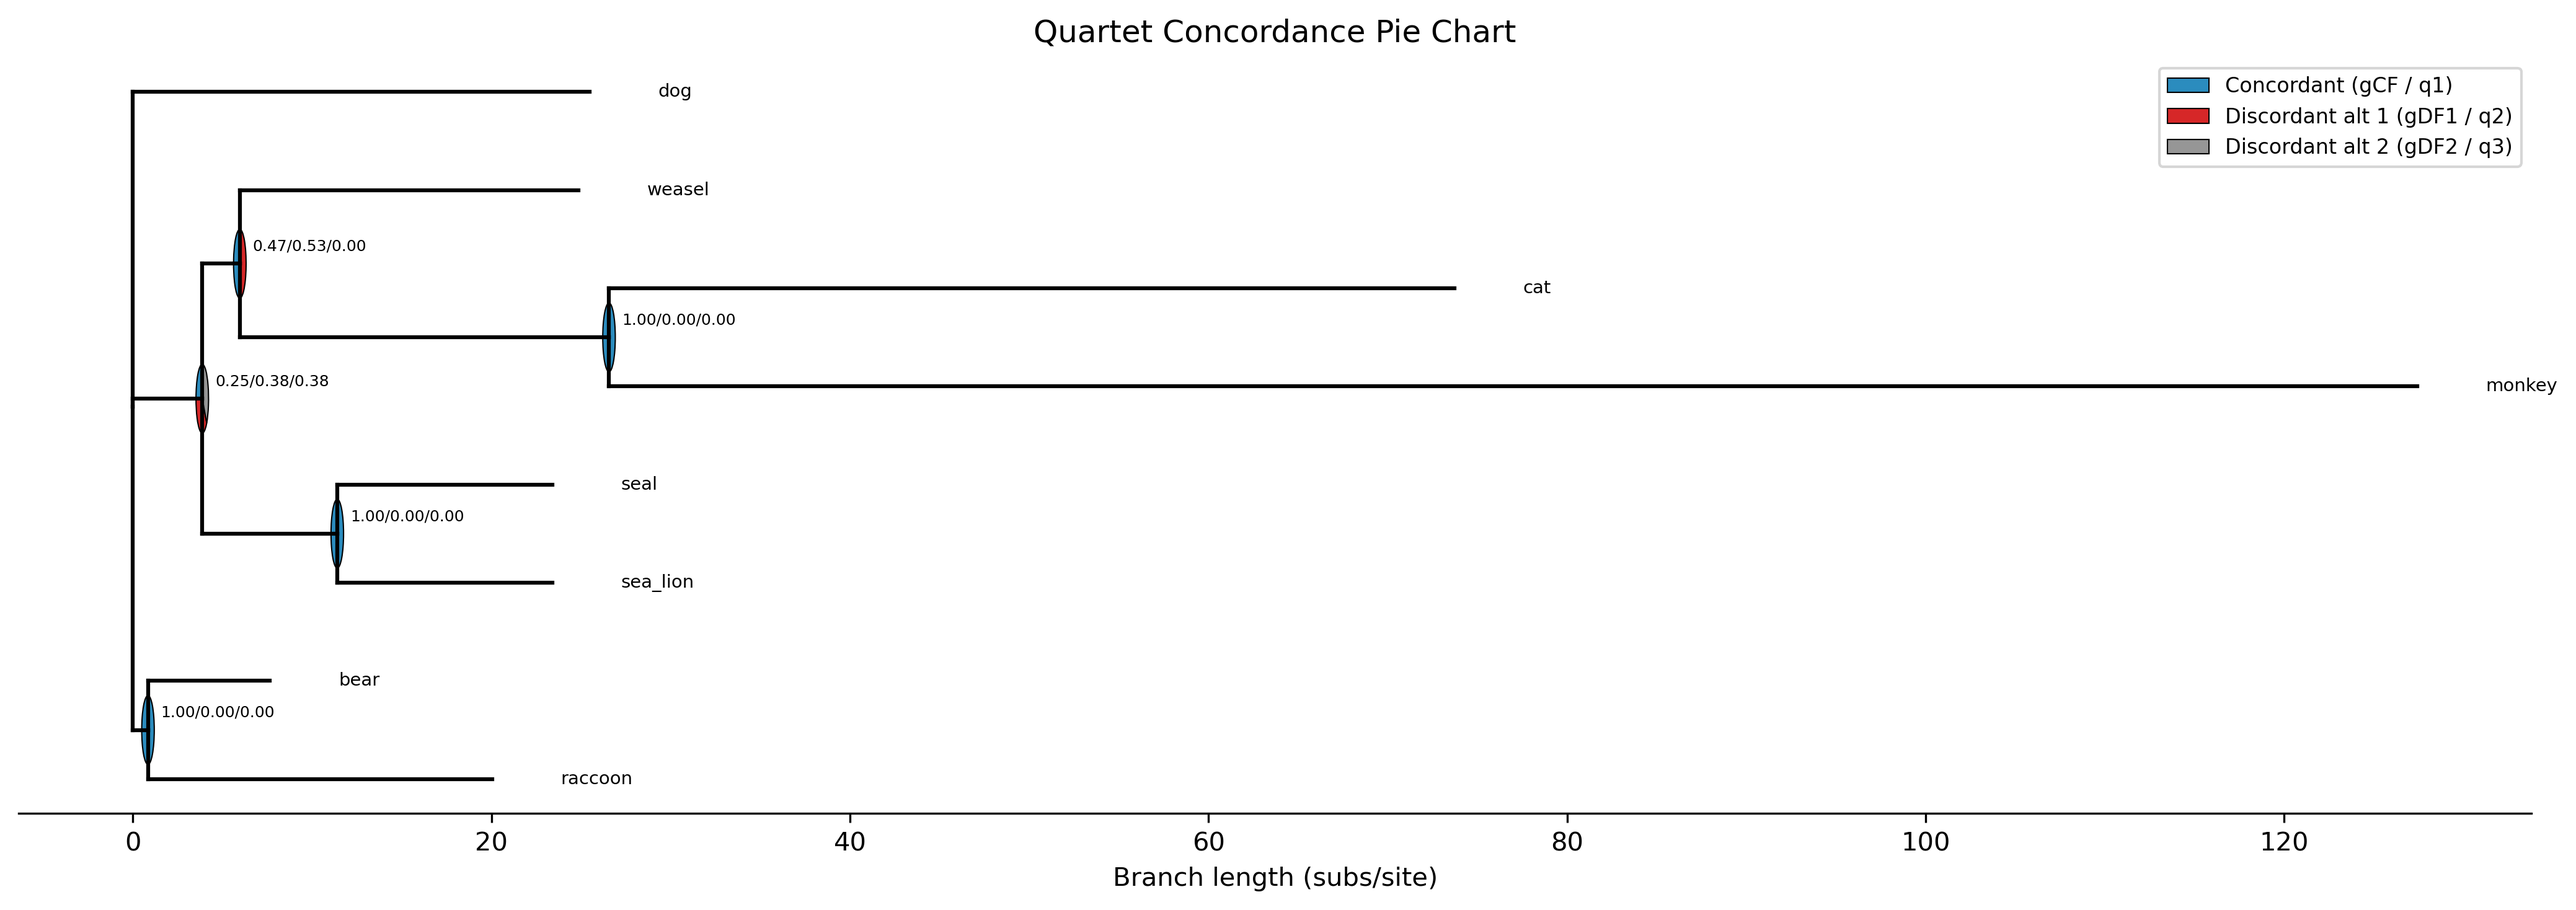
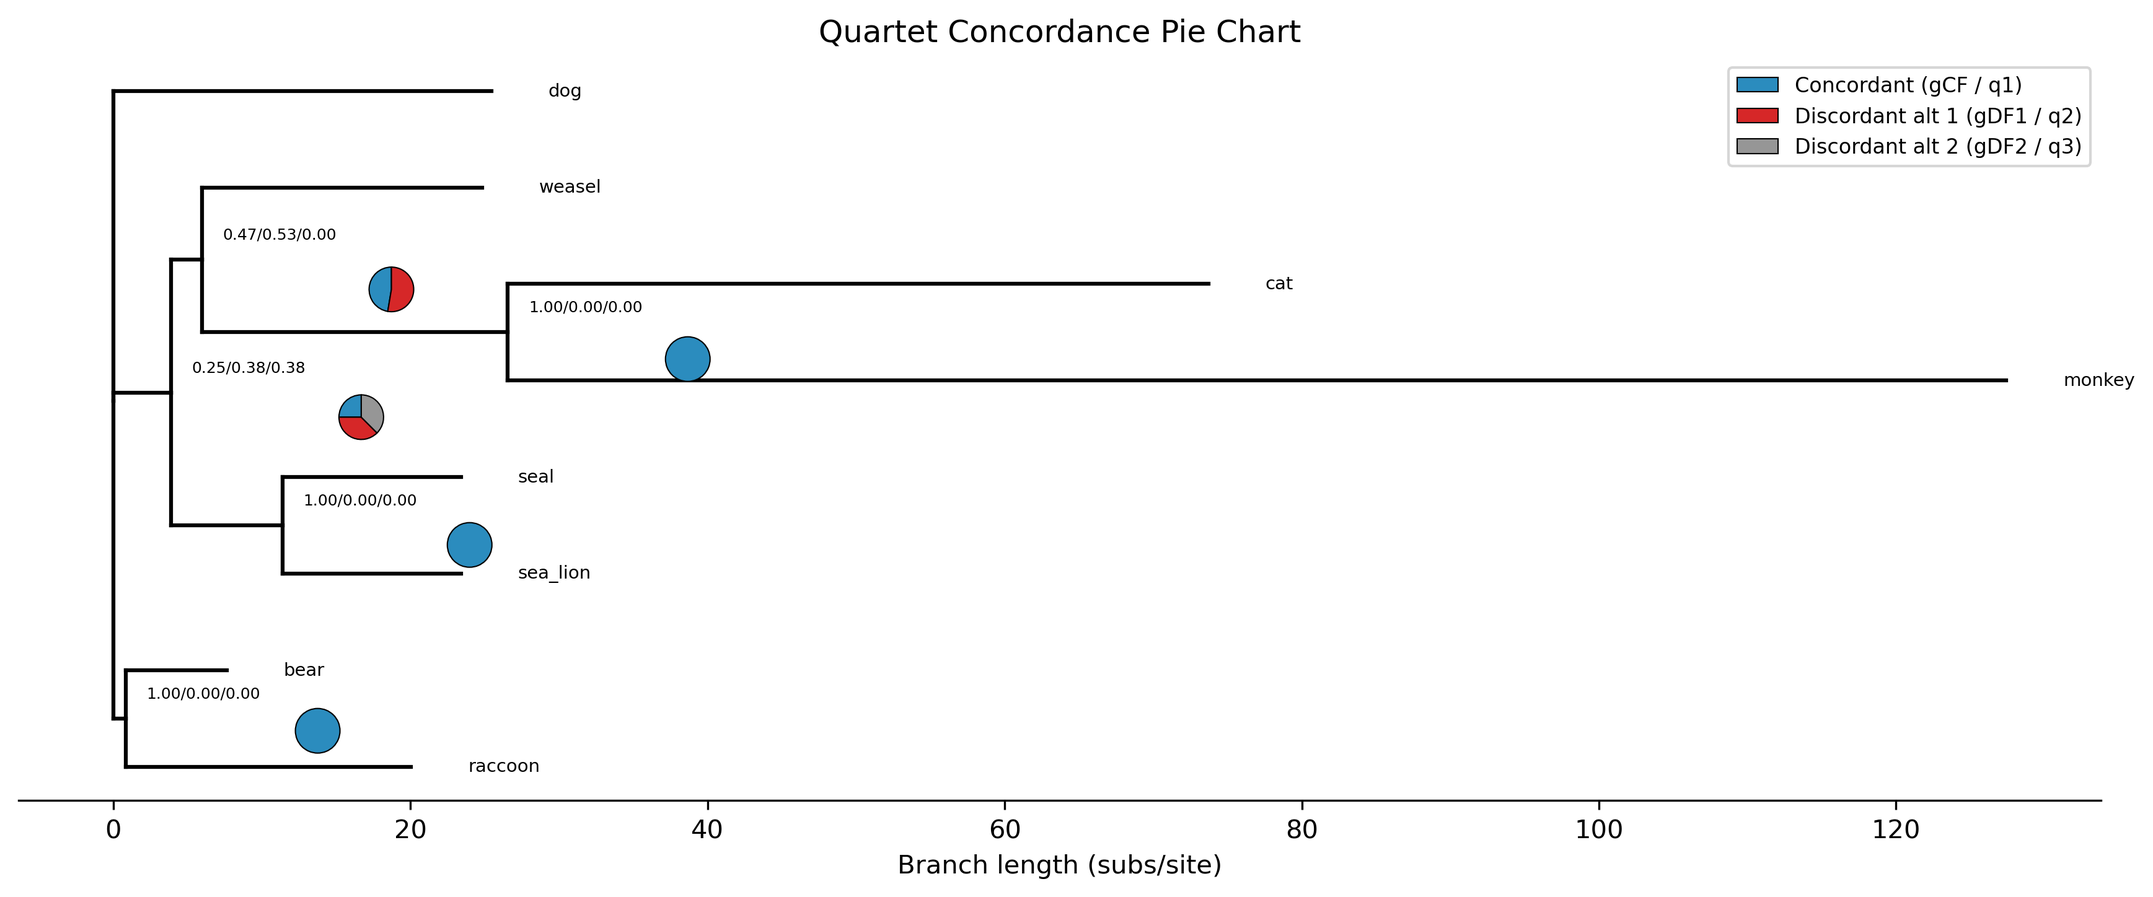
fix: render quartet pies as perfect circles above phylogeny
Uses inset axes with ax.pie() instead of Wedge patches to ensure
pies are always circular regardless of axis scaling. Sets zorder=10
so pies render above branch lines. Replaces tight_layout with
manual subplots_adjust to avoid warning from inset axes.

diff --git a/phykit/services/tree/quartet_pie.py b/phykit/services/tree/quartet_pie.py
@@ -113,7 +113,7 @@ class QuartetPie(Tree):
             import matplotlib
             matplotlib.use("Agg")
             import matplotlib.pyplot as plt
-            from matplotlib.patches import Wedge, Patch
+            from matplotlib.patches import Patch
         except ImportError:
             print("matplotlib is required for quartet_pie. Install matplotlib and retry.")
             raise SystemExit(2)
@@ -177,11 +177,16 @@ class QuartetPie(Tree):
             ax.plot([x0, x1], [y1, y1], color="black", lw=1.5)
             ax.plot([x0, x0], [y0, y1], color="black", lw=1.5)
 
-        # Pie charts at internal nodes
+        # Pie charts at internal nodes — rendered as inset axes so they
+        # appear as perfect circles regardless of axis scaling, and are
+        # drawn above the phylogeny branches.
         max_x = max(node_x.values()) if node_x else 1.0
         n_tips = len(tips)
-        # Scale pie radius relative to y-spacing (1 unit per tip) to avoid overlap
-        pie_radius = min(max_x * 0.015, 0.35 * (n_tips / max(n_tips, 1)))
+        # Pie size in figure-fraction units (scales with figure, not data)
+        pie_size = min(0.06, 0.8 / max(n_tips, 1))
+
+        # Force a draw so transData is populated
+        fig.canvas.draw()
 
         for clade in tree.find_clades(order="preorder"):
             if clade.is_terminal() or clade == root:
@@ -195,19 +200,26 @@ class QuartetPie(Tree):
             cx = node_x.get(cid, 0)
             cy = node_y.get(cid, 0)
 
-            # Draw pie using Wedge patches
-            start_angle = 90.0
-            for proportion, color in zip([gcf, gdf1, gdf2], colors):
-                if proportion < 1e-6:
-                    start_angle += proportion * 360.0
-                    continue
-                sweep = proportion * 360.0
-                wedge = Wedge(
-                    (cx, cy), pie_radius, start_angle, start_angle + sweep,
-                    facecolor=color, edgecolor="black", linewidth=0.5,
+            # Convert data coords to figure-fraction coords for the inset
+            disp = ax.transData.transform((cx, cy))
+            fig_coord = fig.transFigure.inverted().transform(disp)
+            fx, fy = fig_coord
+
+            # Create a small inset axes centered on the node
+            inset = fig.add_axes(
+                [fx - pie_size / 2, fy - pie_size / 2, pie_size, pie_size],
+                zorder=10,
+            )
+            wedge_vals = [gcf, gdf1, gdf2]
+            wedge_colors = [c for v, c in zip(wedge_vals, colors) if v > 1e-6]
+            wedge_vals = [v for v in wedge_vals if v > 1e-6]
+            if wedge_vals:
+                inset.pie(
+                    wedge_vals, colors=wedge_colors, startangle=90,
+                    wedgeprops={"edgecolor": "black", "linewidth": 0.5},
                 )
-                ax.add_patch(wedge)
-                start_angle += sweep
+            inset.set_aspect("equal")
+            inset.axis("off")
 
             # Annotate with values if requested
             if self.annotate:
@@ -215,9 +227,10 @@ class QuartetPie(Tree):
                     f"{gcf:.2f}/{gdf1:.2f}/{gdf2:.2f}",
                     (cx, cy),
                     textcoords="offset points",
-                    xytext=(5, 5),
+                    xytext=(8, 8),
                     fontsize=6,
                     color="black",
+                    zorder=11,
                 )
 
         # Tip labels
@@ -256,7 +269,9 @@ class QuartetPie(Tree):
         if config.axis_fontsize:
             ax.xaxis.label.set_fontsize(config.axis_fontsize)
 
-        fig.tight_layout()
+        # Use constrained_layout=False since inset pie axes are incompatible
+        # with tight_layout; manual padding via subplots_adjust instead
+        fig.subplots_adjust(left=0.05, right=0.85, top=0.92, bottom=0.12)
         fig.savefig(output_path, dpi=config.dpi, bbox_inches="tight")
         plt.close(fig)
 
